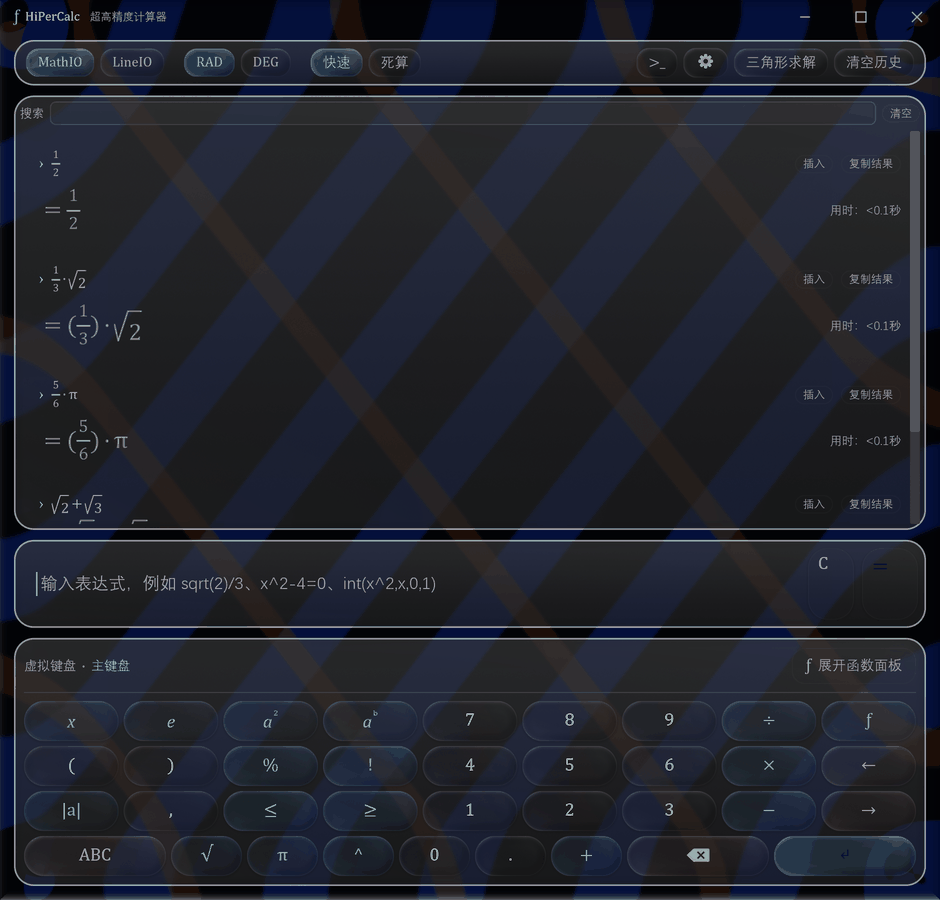
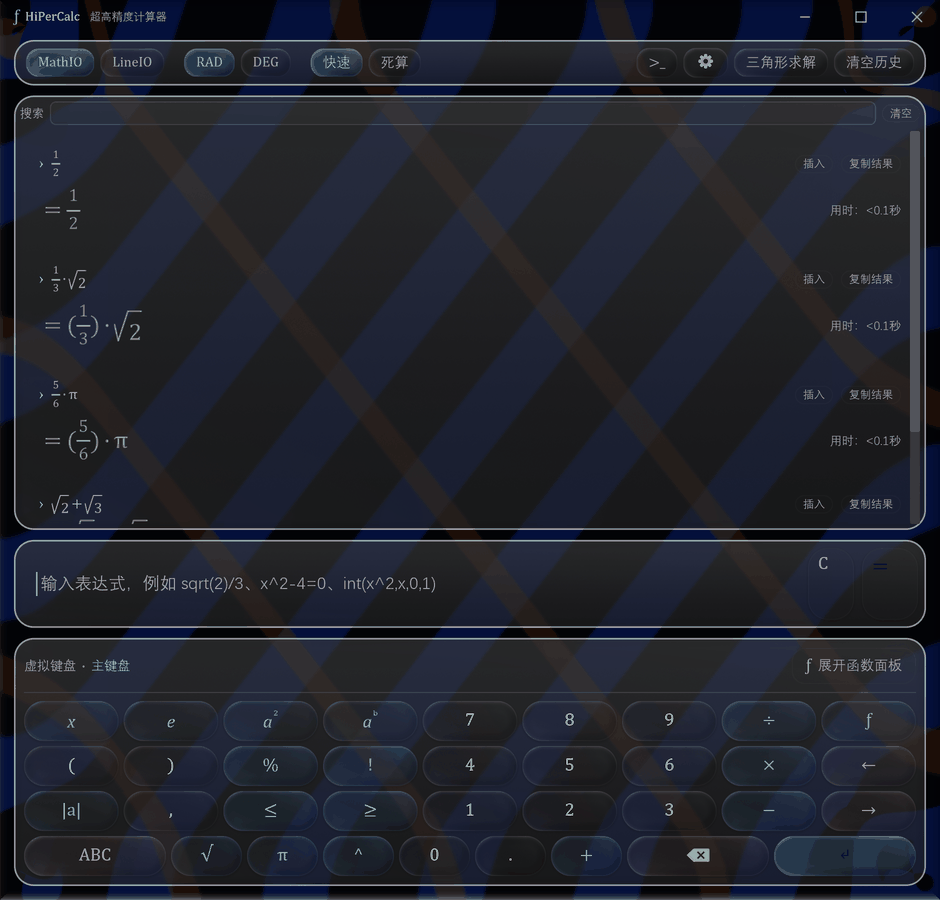
fix(glass): 角部权重改 p-范数并沿边延伸，消掉圆形色斑

diff --git a/crates/hipercalc-gui/src/glass_wgsl.rs b/crates/hipercalc-gui/src/glass_wgsl.rs
@@ -49,13 +49,13 @@ pub const WIN_CORNER_R: f32 = 26.0;
 ///
 /// 这是**独立于边缘**的一条规则：离角点 8% 以内，位移方向改为"朝角点"，
 /// 并且越靠角越强 —— 它**凌驾**于边缘的拉扯/翻折之上（见 `glass_fold`）。
-pub const WIN_CORNER_BAND_FRAC: f32 = 0.08;
+pub const WIN_CORNER_BAND_FRAC: f32 = 0.12;
 
 /// 角部拉扯深度：贴角处的位移 = `WIN_CORNER_PULL × 角部带宽`。
 ///
 /// 上限被 `0.7·到角点距离` 夹住 —— 越过角点就会采到窗口外面（那是当初
 /// "角上黑洞"的成因）。
-pub const WIN_CORNER_PULL: f32 = 0.7;
+pub const WIN_CORNER_PULL: f32 = 0.55;
 
 /// 角部加成：`幅度 × (1 + WIN_CORNER_BOOST · 角权)`。
 ///
@@ -248,17 +248,24 @@ fn glass_fold(p: vec2<f32>, half: vec2<f32>, radius: f32, band: f32,
     let cpt = vec2<f32>((half.x - radius) * sx, (half.y - radius) * sy);
     let relc = p - cpt;                          // 弧心 → 像素（朝外）
     let rho_c = max(length(relc), 1e-4);
-    let dc = max(rho_c - radius, 0.0);           // 到**圆弧**的距离
+    // ⚠ 距离用 **p-范数（p=4）**，不是欧氏距离：欧氏的等值线是**正圆**，
+    // 用户 2026-10-28："角上的扭曲完全是一个圆，非常奇怪"。
+    // 4-范数的等值线是"圆角方形"，会顺着窗口轮廓往两条边上延伸。
+    let qx = abs(relc.x);
+    let qy = abs(relc.y);
+    let pn = pow(pow(qx, 4.0) + pow(qy, 4.0), 0.25);
+    let dc = max(pn - radius, 0.0);
+    // 带宽**跟边缘同一个**，两套规则在带上叠加而不是各画各的圆
     let cband = max(WIN_CORNER_BAND_FRAC * 2.0 * min(half.x, half.y), 1.0);
+    // ⚠ 一次方而不是平方：平方衰减在 8% 处骤停，边界看得见（那个"圆"）
     let wq = smooth01(1.0 - dc / cband);
-    let wq2 = wq * wq;
-    // 采样朝内（远离角点）⇒ 内容被**拽向角**；朝内不会采到形状外面，
-    // 所以这里不需要"不许越过角点"的限幅（那是朝外采样才要的）。
-    let pull_c = WIN_CORNER_PULL * cband * wq2;
-    let corner_off = -(relc / rho_c) * pull_c;
+    // 方向也要混：靠近直边时退回边法线，只有真在角上才是纯径向
+    let cdir = normalize(mix(n, relc / rho_c, wq) + vec2<f32>(0.0, 1e-5));
+    let pull_c = WIN_CORNER_PULL * cband * wq;
+    let corner_off = -cdir * pull_c;
 
     // 权重为 1 时完全接管（凌驾），为 0 时是纯粹边缘效果
-    return mix(edge_off, corner_off, wq2);
+    return mix(edge_off, corner_off, wq);
 }
 
 // 到窗口边缘的**向内**距离（px，负 = 在窗口外）
